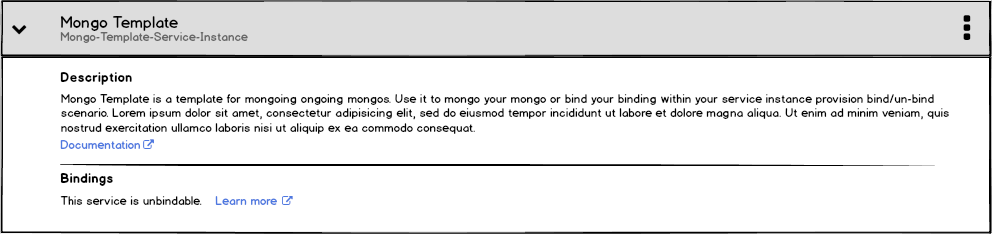
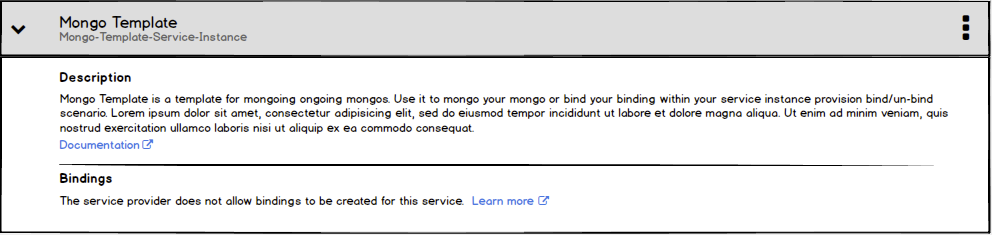
Updated provisioned-services to include unbindable.

diff --git a/web-console/3-project-details/provisioned-services.md b/web-console/3-project-details/provisioned-services.md
@@ -54,6 +54,17 @@
 - The kebab menu should include actions for binding, unbinding and de-provisioning.
 - Are there other actions to include here?
 
+## Unbindable Services
+
+![template](img/unbindable_collapsed.png)
+- In the collapsed state there should be an indication that the service is unbindable with a link to documentation that explains what that means.
+
+![template](img/unbindable_epxanded.png)
+- The expanded state maintains the "Bindings" section, but that section includes a message that the service is unbindable,Why as well as a link to relevant documentation.
+
+![template](img/unbindable_kebab.png)
+- The "Create binding" and "Delete binding" actions are disabled in the kebab menu.
+
 
 
 #### Customer Feedback (if applicable)
